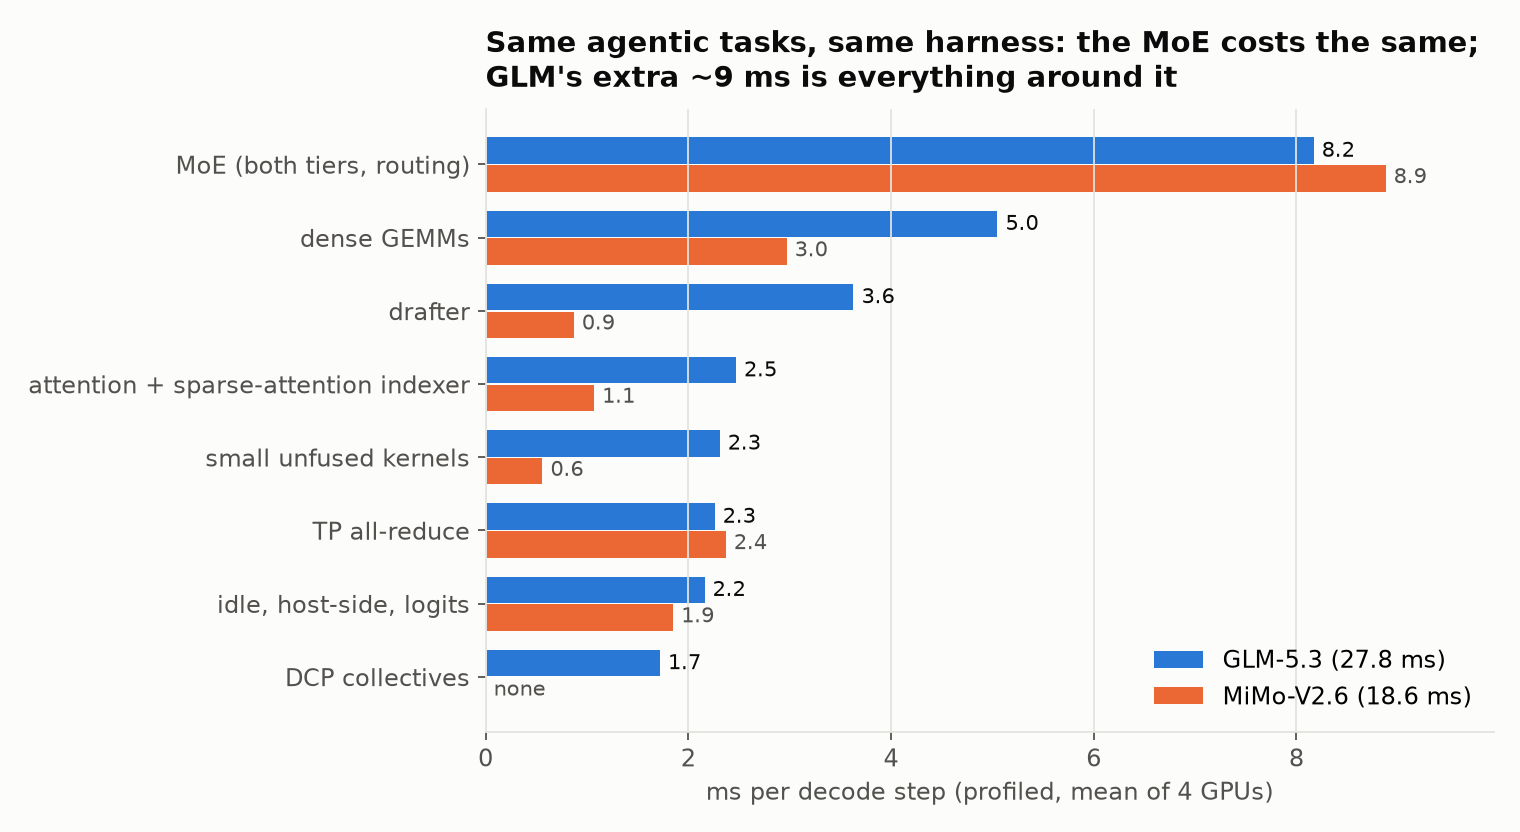
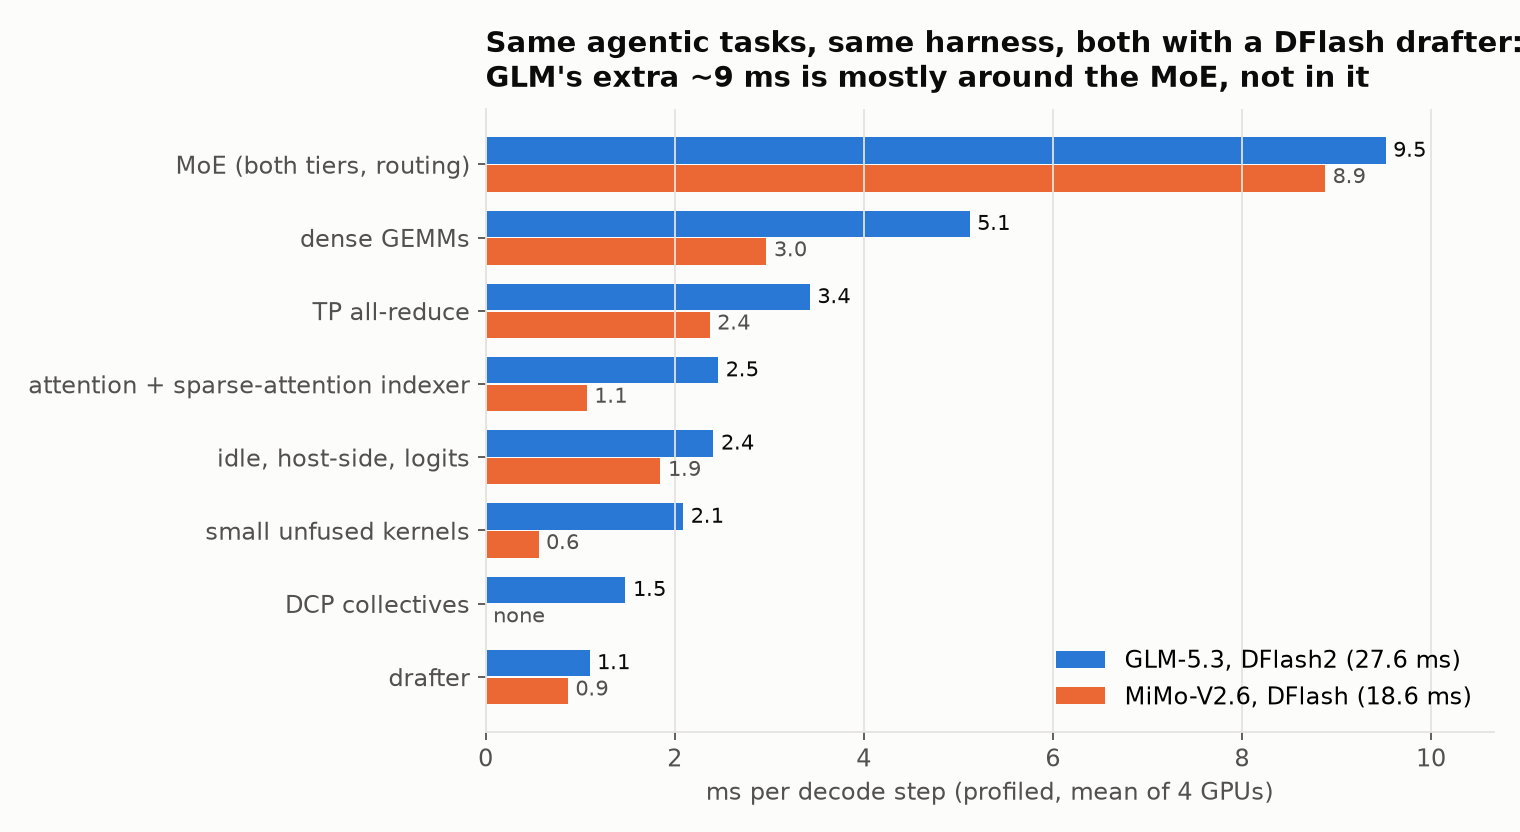
GLM-5.3: DFlash2 working under DCP4; breakdown vs MiMo now with DFlash2
DCP4 lost ~38% of DFlash2's acceptance because the replicated drafter's
64-token pages were addressed inside a DCP-sharded 256-position block; fixed.
On the agentic tasks DFlash2 accepts ~3.35/step like MTP7 and runs 125 tok/s
vs 124. Profile: the eager drafter is 1.1 ms and host-starved ~1 ms at most,
so a CUDA graph isn't the lever; the verify pass is 1.7 ms slower from a
smaller hot set (10 GB reserve). Breakdown figure now GLM-DFlash2 vs MiMo.

diff --git a/glm/README.md b/glm/README.md
@@ -9,13 +9,14 @@ what it took. It gets updated as work lands.
 Both models measured the same way, on the agentic coding tasks MiMo's routing
 profile was built from (see [How it's measured](#how-its-measured)):
 
-| one user, same tasks and harness | decode step* | decode tok/s |
-| --- | ---: | ---: |
-| **GLM-5.3** W4A16, MTP7, DCP4, 400K | **28.1 ms** | **~124** |
-| MiMo-V2.6 MXFP4, DFlash k=7, 250K | 16.9 ms | ~201 |
+| one user, same tasks and harness | decode step* | accepted/step | decode tok/s |
+| --- | ---: | ---: | ---: |
+| **GLM-5.3** W4A16, MTP7, DCP4, 400K | **28.1 ms** | 3.49 | **~124** |
+| **GLM-5.3** W4A16, DFlash2 (eager draft), DCP4, 400K | 26.9 ms | 3.35 | ~125 |
+| MiMo-V2.6 MXFP4, DFlash k=7, 250K | 16.9 ms | 3.53 | ~201 |
 
-\*Fitted at a matched 3.5 accepted tokens per step and 8K context; both models
-accept 3.4-3.5 on these tasks.
+\*Fitted at matched acceptance and 8K context; tok/s is step-weighted over the
+whole task set. All three accept 3.3-3.5 tokens per step on these tasks.
 
 ## How it's measured
 
@@ -61,23 +62,28 @@ were measured on looping text; they're marked *(greedy bench)*.
 
 ![GLM vs MiMo per decode step](figs/glm-vs-mimo.png)
 
-Profiled on the agentic tasks, four windows per model. **The MoE costs the same
-on both** (8.2 vs 8.9 ms per step): GLM's experts are larger, but it touches
-about as many of them per step (~650 hot and ~130 cold per GPU on both), and
-at equal expert counts its INT4 kernel is within 2-7% of MiMo's MXFP4 one.
-GLM's extra ~9 ms is everything around the MoE:
-- **the drafter, +2.8 ms**: seven sequential passes against one, each reading
-  the 155K-token output layer;
-- **dense GEMMs, +2.1 ms**: GLM's MLA and indexer projections and its shared
+Profiled on the agentic tasks, four windows per model, with GLM running the
+same kind of drafter as MiMo (DFlash2, section 6). GLM's experts are larger,
+but it touches about as many of them per step (~650 hot and ~130 cold per GPU
+on both), and at equal expert counts its INT4 kernel is within 2-7% of MiMo's
+MXFP4 one. So the MoE is not where the gap is: 9.5 against 8.9 ms, and with
+MTP7 and a bigger hot set GLM's MoE is actually cheaper (8.2 ms). GLM's extra
+~9 ms is everything around it:
+- **dense GEMMs, +2.2 ms**: GLM's MLA and indexer projections and its shared
   expert, all bf16;
-- **small unfused kernels, +1.8 ms**: hundreds per step from the MLA, sparse
+- **small unfused kernels, +1.5 ms**: hundreds per step from the MLA, sparse
   attention and DCP code paths (zero-fills, concats, casts, DCP's attention
   merge), where MiMo has three fused norms;
-- **DCP's collectives, +1.7 ms**, and **attention plus the indexer, +1.4 ms**.
+- **DCP's collectives, +1.5 ms**, and **attention plus the indexer, +1.4 ms**;
+- **the TP all-reduce, +1.1 ms**, nearly all of it GPUs waiting on the slowest
+  one, which follows the MoE's imbalance (with MTP7 it's 2.3 ms, level with
+  MiMo);
+- **the drafter, +0.2 ms**: with DFlash2 the drafter gap is gone. MTP7's seven
+  sequential passes cost 3.6 ms, against DFlash2's 1.1.
 
-Roughly half of that is structural (the drafter, the extra attention
-machinery); the other half is kernels running below what the hardware allows,
-which is where the work goes next.
+Roughly half of that is structural (the extra attention machinery); the other
+half is kernels running below what the hardware allows, which is where the
+work goes next.
 
 ## 1. Routing, and how much the HBM budget buys
 
@@ -216,6 +222,46 @@ draft passes ran as ~430 separate kernel launches every step, silently. Capturin
 size 1 as well fixed it: **-0.65 ms** *(greedy bench)*. (The profiler had
 suggested ~5 ms; the CPU was mostly launching ahead of the GPU anyway.)
 
+## 6. DFlash2 instead of MTP7
+
+DFlash2 drafts all 7 tokens in one pass of a small 6-layer model instead of
+MTP's seven sequential passes. It had been stuck on DCP1, because under DCP4
+it lost ~38% of its acceptance, and the cause had never been found.
+
+**The bug was cache addressing.** GLM's MLA pages and the drafter's pages
+can't be unified, so vLLM falls back to one cache group holding all 84 layers,
+and under DCP4 that group is sharded: each block covers 256 positions, of which
+an MLA layer keeps its GPU's 64. The drafter's KV is replicated, not sharded,
+but it still had 64-token pages and indexed the block table as if each entry
+covered 64 positions. So under DCP4 it only ever held its own KV for the first
+64 positions of a sequence. The fix gives replicated layers in a sharded group
+full 256-token pages, addressed in those units, and budgets them in the tiered
+planner. Acceptance under DCP4 now matches DCP1 request for request.
+
+On the agentic tasks, eager drafter, DCP4:
+
+| | decode step | accepted/step | decode tok/s |
+| --- | ---: | ---: | ---: |
+| MTP7 | 28.2 ms | 3.49 | 124 |
+| DFlash2 | 26.9 ms | 3.35 | 125 |
+| DFlash2, DCP1 | 35.1 ms | 3.37 | 96 |
+
+Two things stand out:
+- **DFlash2 accepts no more than MTP7 on real agentic text** (3.35 vs 3.49).
+  On GSM8K it accepts ~5.7; its edge there doesn't carry over to this workload.
+- **Its drafter is much cheaper** (1.1 ms against MTP7's 3.6), but the verify
+  pass got 1.7 ms slower. Its KV and a 10 GB HBM reserve leave 2,951 hot
+  experts per GPU against MTP7's 3,208, which shows up as more MoE time and
+  more waiting in the all-reduce (above).
+
+The drafter runs eagerly, not as a CUDA graph: capturing it costs acceptance
+(an open bug). That is not where the time is, though. The trace puts the whole
+draft pass at 188 kernels and 1.1 ms of GPU time, and the GPU waits on the host
+for only ~1 ms per step in total, so a CUDA graph could win back at most that.
+The 10 GB reserve dates from before the planner budgeted the drafter's KV; with
+that fixed, a 7-8 GB reserve should give most of the hot experts back, and is
+being measured.
+
 ## What's left
 
 From the breakdown above, the headroom is outside the MoE:
@@ -224,12 +270,13 @@ From the breakdown above, the headroom is outside the MoE:
 
   ![GEMM efficiency](figs/glm-gemm.png)
 
-- **the small unfused kernels**, ~2.3 ms of zero-fills, concats, casts and
+- **the small unfused kernels**, ~2.1-2.3 ms of zero-fills, concats, casts and
   merges that a few fused kernels could replace;
-- **the drafter**, 3.6 ms, mostly per-pass fixed costs: its biggest piece,
-  reading the 155K-token output layer seven times, is already at 93% of
-  bandwidth;
-- **DCP's collectives and the attention kernels**.
+- **the all-reduce's waiting**, 1.5-2.5 ms of GPUs waiting on the slowest one,
+  which shrinks with the MoE's imbalance and hot-set size; fusing the
+  all-reduce with the following RMSNorm is being measured;
+- **DCP's collectives and the attention kernels**, ~4 ms together;
+- **the GPU waiting on the host**, ~1 ms per step with DFlash2's eager drafter.
 
 All of it keeps the math identical: no further quantization, no change to the
 drafter or to which experts run.

diff --git a/README.md b/README.md
@@ -17,7 +17,8 @@ Both at batch one with speculative decoding. GSM8K doesn't move.
 
 **GLM-5.3** is in progress on the same node, one user, MTP7, 400K context. On
 the same agentic coding tasks and harness as MiMo it decodes at 28.1 ms/step
-(~124 tok/s) against MiMo's 16.9 (~201), at matched acceptance:
+(~124 tok/s) against MiMo's 16.9 (~201), at matched acceptance; with a DFlash2
+drafter, now working under DCP4, it is level at ~125 tok/s:
 [glm/README.md](glm/README.md) tracks what was different, what it took, and
 where the gap is.
 
